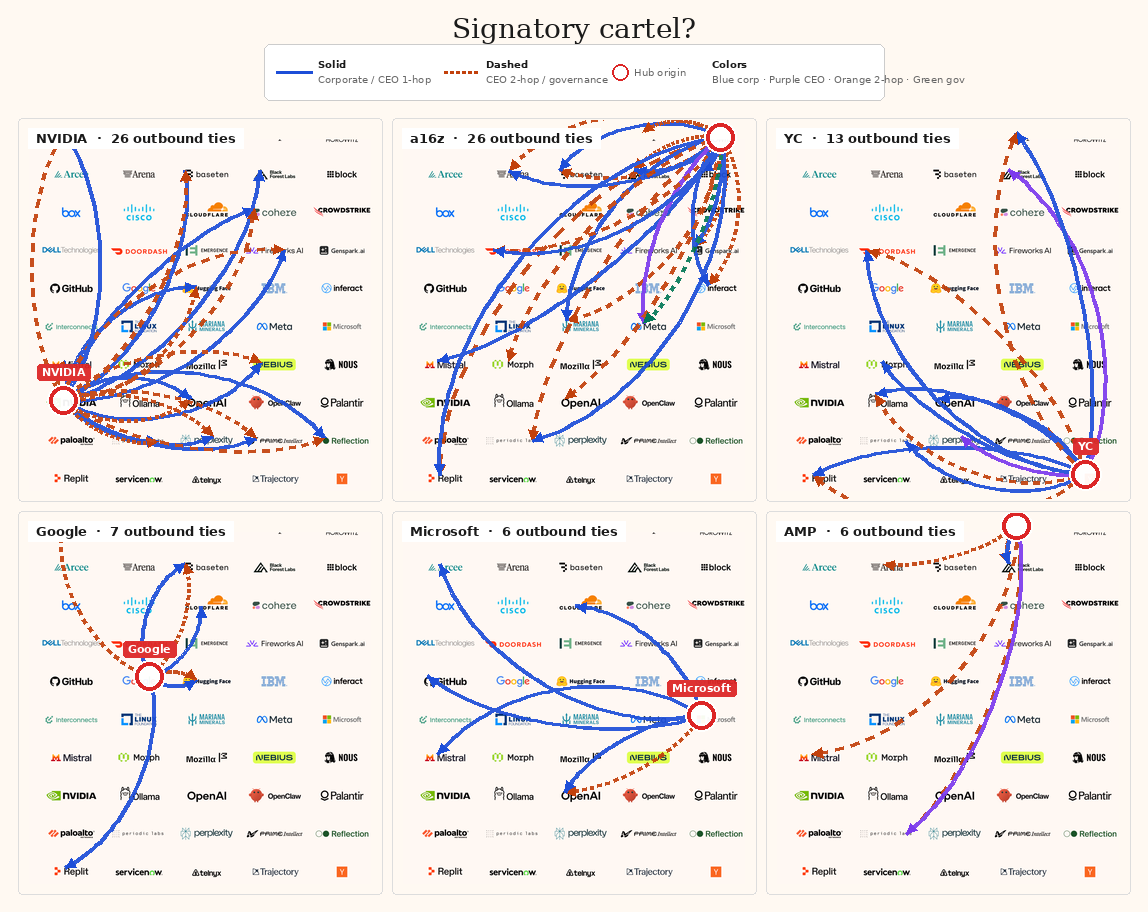
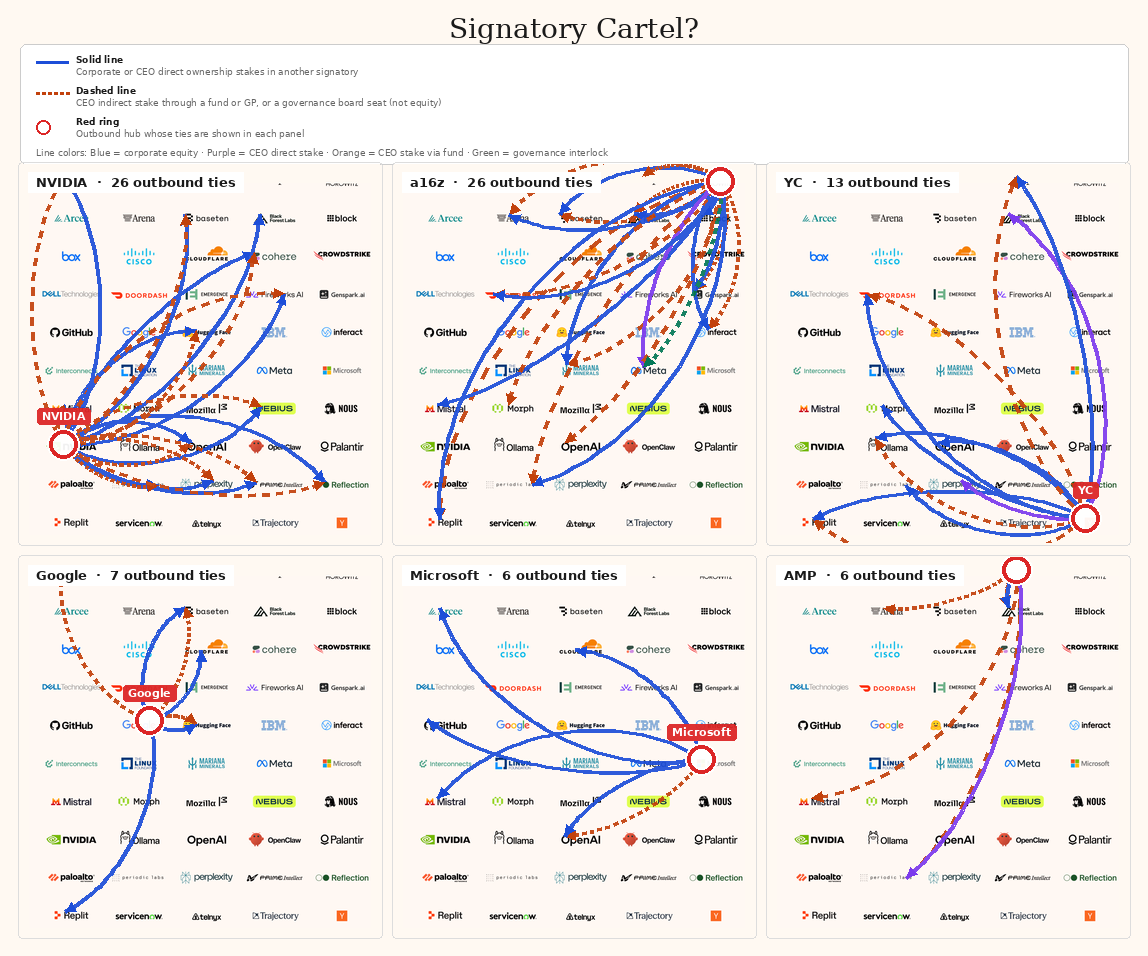
Fix hub infographic legend overflow and title casing
- Retitle to 'Signatory Cartel?' (capital C)
- Replace terse legend labels with plain-English descriptions
- Widen legend box to full canvas width with word-wrapped text
- Stack legend rows vertically so nothing overflows the outline

diff --git a/data/signatories/render_signatories_tufte.py b/data/signatories/render_signatories_tufte.py
@@ -44,7 +44,7 @@ GRID_LEFT = 52
 GRID_RIGHT = 1040
 GRID_CROP = (38, 428, 1054, 1475)  # logo grid only — excludes title + signatory text
 PANEL_PAD = (28, 58, 28, 24)  # left, top, right, bottom — top pad keeps hub markers visible
-HUB_INFOGRAPHIC_TITLE = "Signatory cartel?"
+HUB_INFOGRAPHIC_TITLE = "Signatory Cartel?"
 CREAM_RGB = (255, 249, 242)
 
 CREAM = "#FFF9F2"
@@ -276,7 +276,7 @@ def render_matrix(edges: list[dict], order: list[str]) -> Path:
     ]
     ax.legend(handles=legend_patches, loc="upper right", frameon=False, fontsize=8)
 
-  # marginal totals
+    # marginal totals
     out_counts = [sum(1 for e in edges if e["src"] == s) for s in order]
     in_counts = [sum(1 for e in edges if e["tgt"] == s) for s in order]
     with_ties = sum(1 for o, i in zip(out_counts, in_counts) if o or i)
@@ -489,12 +489,77 @@ def logo_centers_padded() -> dict[str, tuple[float, float]]:
     return {name: (x + pl, y + pt) for name, (x, y) in logo_centers_cropped().items()}
 
 
+LEGEND_BOX_HEIGHT = 108
+
+
+def _wrap_text(draw: ImageDraw.ImageDraw, text: str, font: ImageFont.FreeTypeFont, max_width: float) -> list[str]:
+    words = text.split()
+    if not words:
+        return [""]
+    lines: list[str] = []
+    current: list[str] = []
+    for word in words:
+        trial = " ".join(current + [word])
+        if draw.textlength(trial, font=font) <= max_width:
+            current.append(word)
+        else:
+            if current:
+                lines.append(" ".join(current))
+            current = [word]
+    if current:
+        lines.append(" ".join(current))
+    return lines
+
+
 def draw_legend_compact(draw: ImageDraw.ImageDraw, x: int, y: int, width: int) -> int:
-    """Compact horizontal legend for top of hub infographic."""
-    pad = 12
-    box_h = 56
-    font = ImageFont.truetype("/usr/share/fonts/truetype/dejavu/DejaVuSans.ttf", 10)
-    bold = ImageFont.truetype("/usr/share/fonts/truetype/dejavu/DejaVuSans-Bold.ttf", 10)
+    """Stacked legend for hub infographic — plain-English labels, no overflow."""
+    pad = 16
+    sample_w = 40
+    font = ImageFont.truetype("/usr/share/fonts/truetype/dejavu/DejaVuSans.ttf", 9)
+    bold = ImageFont.truetype("/usr/share/fonts/truetype/dejavu/DejaVuSans-Bold.ttf", 9)
+    text_x = x + pad + sample_w
+    max_text_w = width - pad * 2 - sample_w
+    line_gap = 11
+
+    def solid(sx, sy, color):
+        draw.line([(sx, sy), (sx + 32, sy)], fill=color, width=3)
+
+    def dashed(sx, sy, color):
+        for i in range(0, 32, 6):
+            draw.line([(sx + i, sy), (sx + i + 3, sy)], fill=color, width=3)
+
+    entries: list[tuple] = [
+        (
+            lambda sx, sy: solid(sx, sy, FAMILY_COLORS["corp"]),
+            "Solid line",
+            "Corporate or CEO direct ownership stakes in another signatory",
+        ),
+        (
+            lambda sx, sy: dashed(sx, sy, FAMILY_COLORS["ceo_2hop"]),
+            "Dashed line",
+            "CEO indirect stake through a fund or GP, or a governance board seat (not equity)",
+        ),
+        (
+            None,
+            "Red ring",
+            "Outbound hub whose ties are shown in each panel",
+        ),
+    ]
+
+    color_lines = _wrap_text(
+        draw,
+        "Line colors: Blue = corporate equity · Purple = CEO direct stake · "
+        "Orange = CEO stake via fund · Green = governance interlock",
+        font,
+        max_text_w,
+    )
+
+    content_bottom = y + 10
+    for _, __, description in entries:
+        desc_lines = _wrap_text(draw, description, font, max_text_w)
+        content_bottom += 12 + len(desc_lines) * line_gap + 8
+    content_bottom += len(color_lines) * line_gap + 6
+    box_h = max(LEGEND_BOX_HEIGHT, content_bottom - y)
 
     draw.rounded_rectangle(
         (x, y, x + width, y + box_h),
@@ -504,37 +569,25 @@ def draw_legend_compact(draw: ImageDraw.ImageDraw, x: int, y: int, width: int) -
         width=1,
     )
 
-    def solid(sx, sy, color):
-        draw.line([(sx, sy), (sx + 36, sy)], fill=color, width=3)
+    row_y = y + 10
+    for draw_sample, label, description in entries:
+        if draw_sample is not None:
+            draw_sample(x + pad, row_y + 8)
+        else:
+            ring_y = row_y + 2
+            draw.ellipse(
+                (x + pad, ring_y + 2, x + pad + 14, ring_y + 16),
+                outline=(220, 38, 38),
+                width=2,
+            )
+        draw.text((text_x, row_y), label, fill=INK, font=bold)
+        for i, line in enumerate(_wrap_text(draw, description, font, max_text_w)):
+            draw.text((text_x, row_y + 12 + i * line_gap), line, fill=MUTED, font=font)
+        desc_lines = _wrap_text(draw, description, font, max_text_w)
+        row_y += 12 + len(desc_lines) * line_gap + 8
 
-    def dashed(sx, sy, color):
-        for i in range(0, 36, 6):
-            draw.line([(sx + i, sy), (sx + i + 3, sy)], fill=color, width=3)
-
-    cy = y + box_h // 2
-    lx = x + pad
-
-    solid(lx, cy, FAMILY_COLORS["corp"])
-    draw.text((lx + 42, cy - 14), "Solid", fill=INK, font=bold)
-    draw.text((lx + 42, cy + 1), "Corporate / CEO 1-hop", fill=MUTED, font=font)
-
-    lx += 168
-    dashed(lx, cy, FAMILY_COLORS["ceo_2hop"])
-    draw.text((lx + 42, cy - 14), "Dashed", fill=INK, font=bold)
-    draw.text((lx + 42, cy + 1), "CEO 2-hop / governance", fill=MUTED, font=font)
-
-    lx += 168
-    draw.ellipse((lx, cy - 8, lx + 16, cy + 8), outline=(220, 38, 38), width=2)
-    draw.text((lx + 22, cy - 6), "Hub origin", fill=MUTED, font=font)
-
-    lx += 100
-    draw.text((lx, cy - 14), "Colors", fill=INK, font=bold)
-    draw.text(
-        (lx, cy + 1),
-        "Blue corp · Purple CEO · Orange 2-hop · Green gov",
-        fill=MUTED,
-        font=font,
-    )
+    for i, line in enumerate(color_lines):
+        draw.text((x + pad, row_y + i * line_gap), line, fill=MUTED, font=font)
 
     return box_h
 
@@ -551,11 +604,11 @@ def render_hub_panels(edges: list[dict]) -> Path:
     panel_h = int(panel_w * crop_h / crop_w)
     gap = 14
     margin = 20
-    legend_w = 620
-    title_h = 40
-    legend_h = 64
-    header_h = title_h + legend_h + 16
     canvas_w = panel_w * 3 + gap * 2 + margin * 2
+    legend_w = canvas_w - margin * 2
+    title_h = 40
+    legend_h = LEGEND_BOX_HEIGHT
+    header_h = title_h + legend_h + 16
     canvas_h = header_h + panel_h * 2 + gap + margin
 
     canvas = Image.new("RGB", (canvas_w, canvas_h), CREAM_RGB)
